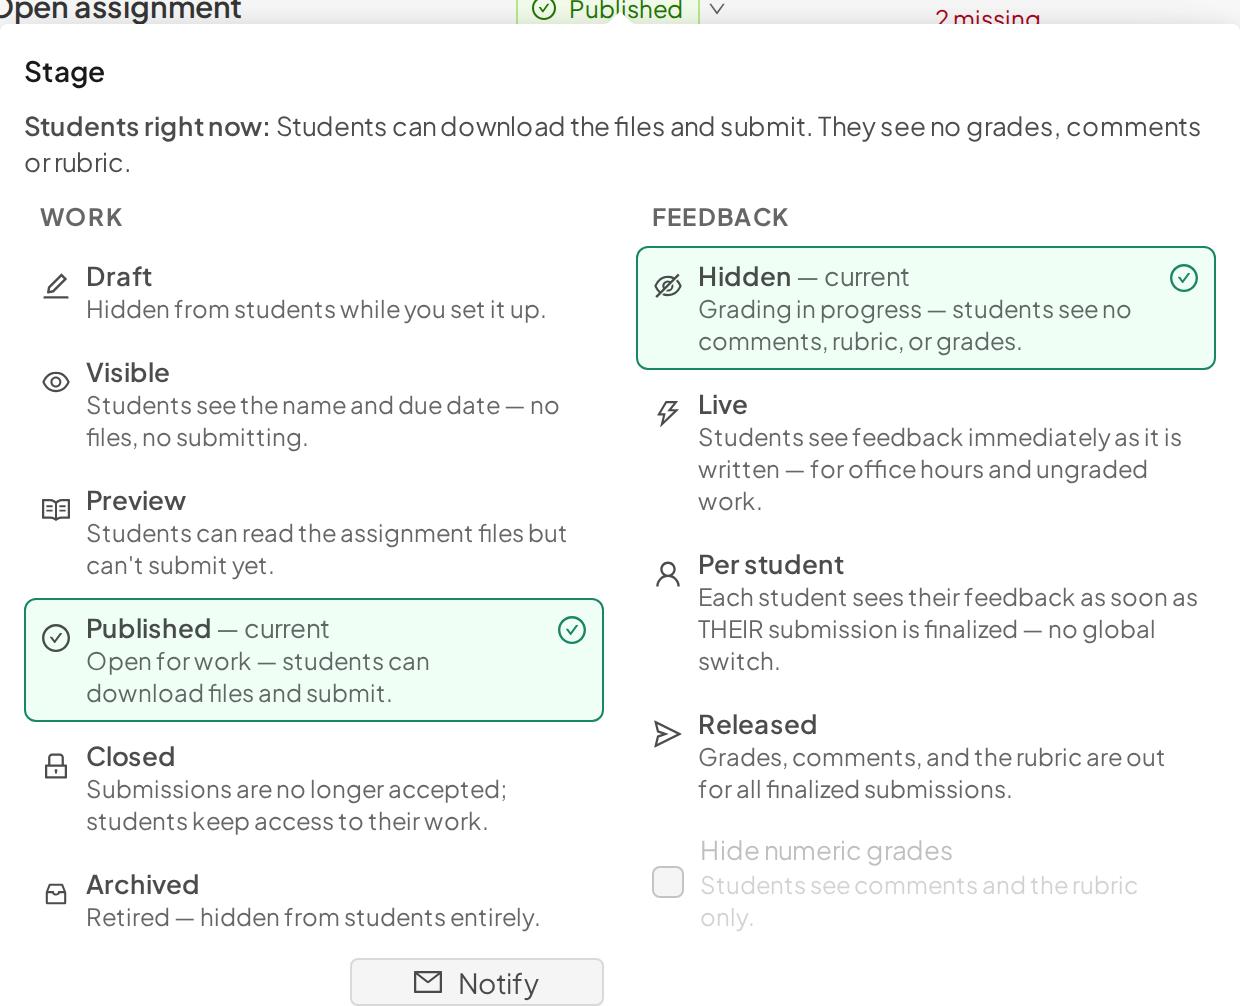
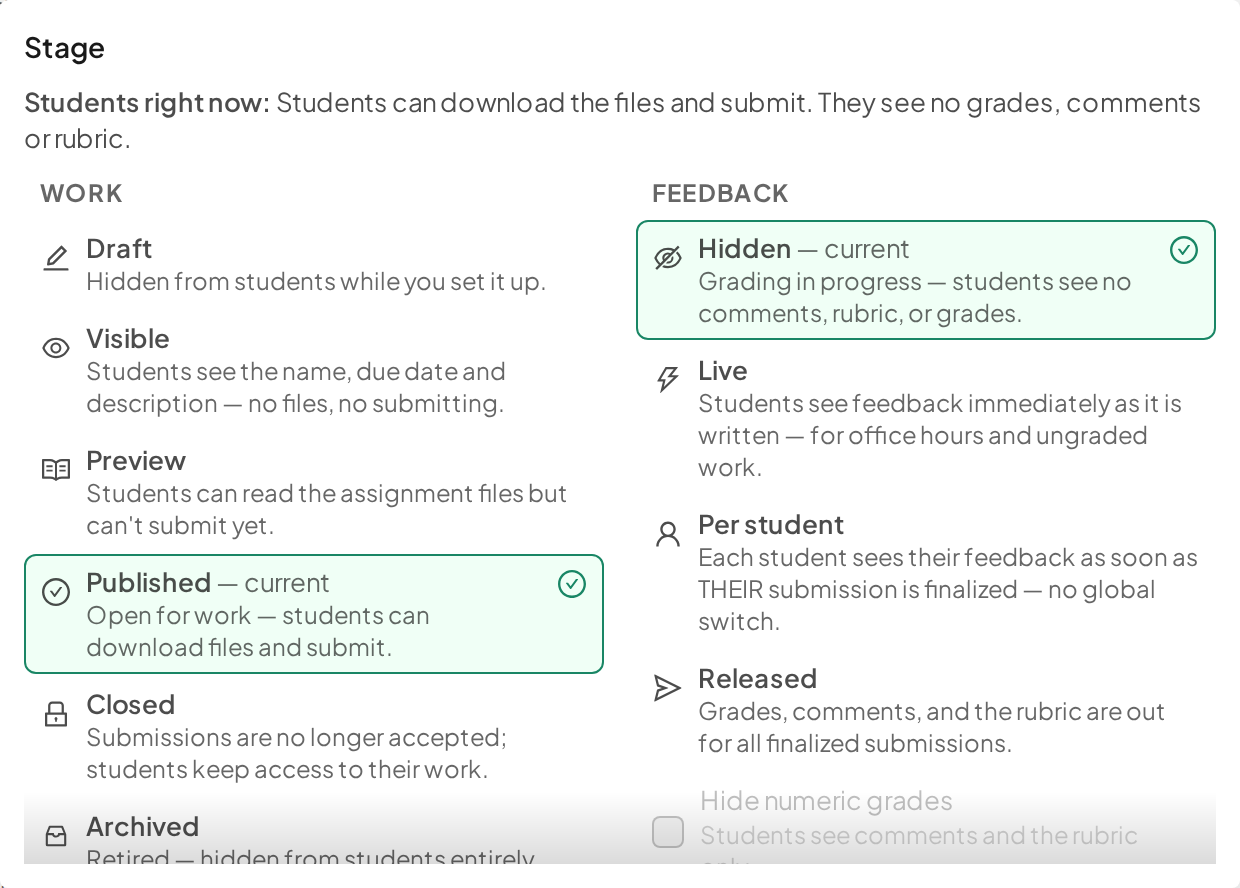
fix(admin): keep the stage picker inside the window
The picker body is capped at half the window with tighter rows, so the
whole popover fits above or below any row's chip; it overflowed by 12px on
a mid-screen row at 1440x900. The Visible option says students also see
the description.

diff --git a/src/components/admin/assignments/AssignmentsTable.tsx b/src/components/admin/assignments/AssignmentsTable.tsx
@@ -996,7 +996,7 @@ const AssignmentsTable: React.FC<IManageAssignmentsProps> = (props) => {
       );
 
       const stageContent = (
-        <div className="cp-scroll-shade" style={{ maxHeight: 'calc(65vh - 56px)', overflowY: 'auto' }}>
+        <div className="cp-scroll-shade" style={{ maxHeight: 'calc(50vh - 60px)', overflowY: 'auto' }}>
           <Text
             style={{
               display: 'block',
@@ -1163,8 +1163,8 @@ const AssignmentsTable: React.FC<IManageAssignmentsProps> = (props) => {
               // the narrow stacked one sits beside the chip as before.
               placement={stageTwoColumn ? 'bottom' : 'rightTop'}
               title="Stage"
-              // Two columns on a laptop, one on a narrow window; never taller than two thirds of the
-              // window (it scrolls inside, under a shade), so the popover always fits beside the chip.
+              // Two columns on a laptop, one on a narrow window. The body is capped at half the window
+              // (it scrolls inside, under a shade), so the whole popover fits above or below any row's chip.
               styles={{ root: { width: stageTwoColumn ? 620 : 340, maxWidth: 'calc(100vw - 24px)' } }}
             >
               <button

diff --git a/src/components/admin/assignments/AssignmentsTable.module.scss b/src/components/admin/assignments/AssignmentsTable.module.scss
@@ -11,7 +11,7 @@
   width: 100%;
   font: inherit;
   gap: 8px;
-  padding: 5px 8px;
+  padding: 4px 8px;
   border-radius: 6px;
   /* A list, not a stack of cards: the border only appears on hover and on the current row,
      so ten options read as one picker and fit beside each other. */
@@ -68,7 +68,7 @@
 .stageColumn {
   display: flex;
   flex-direction: column;
-  gap: 2px;
+  gap: 1px;
   min-width: 0;
 }
 
